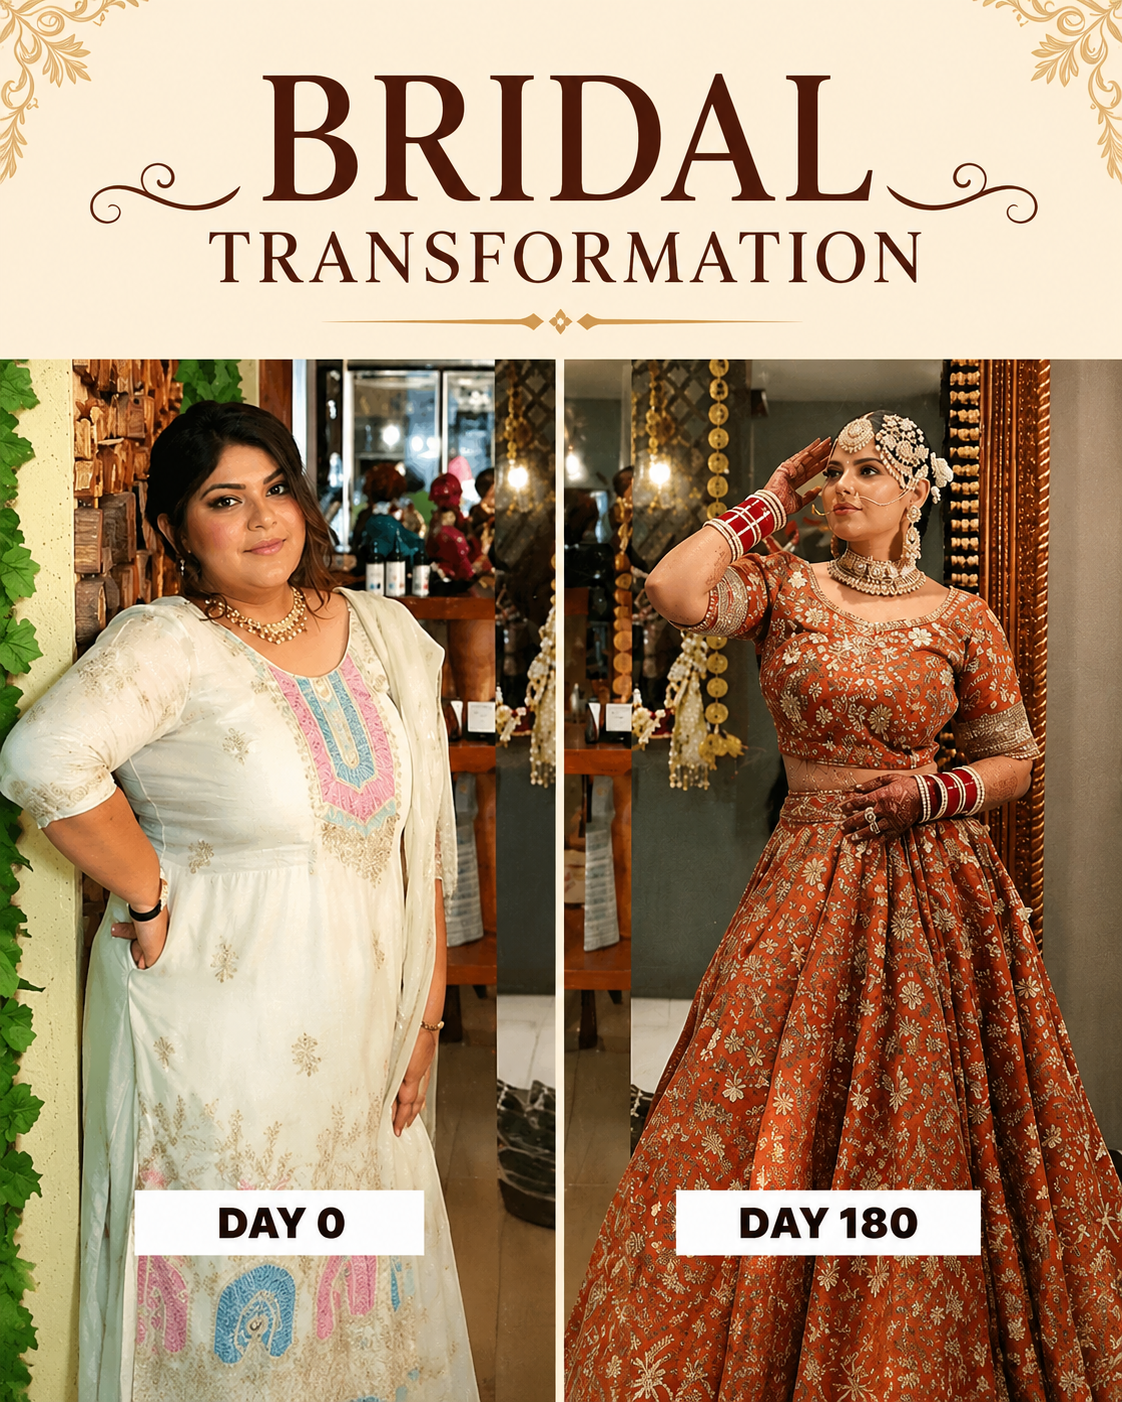
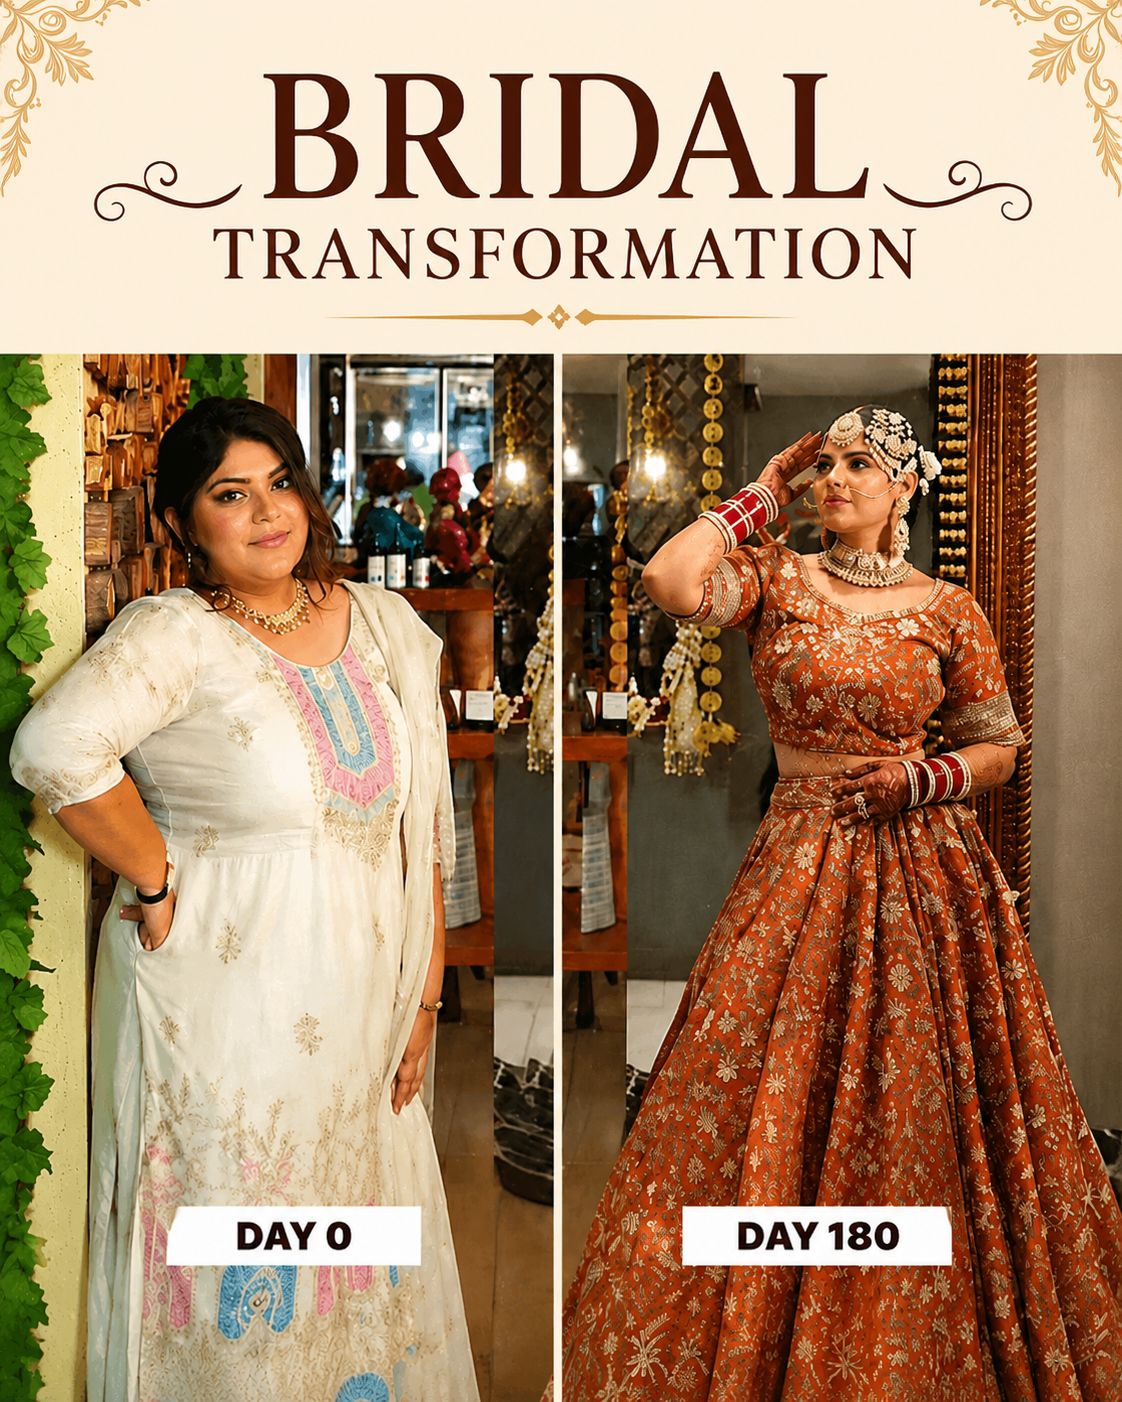
Brides: new hero poster, fix overflow, tagline wrap, stat overlay, 17kg metric

diff --git a/app/brides/page.tsx b/app/brides/page.tsx
@@ -211,7 +211,7 @@ export default function BridesEditPage() {
             <div>
               <div style={css("display:flex;align-items:center;gap:10px;margin-bottom:22px")}>
                 <span style={{ ...css("width:6px;height:6px;border-radius:50%;background:#C9A24B"), animation: "meblink 2s ease-in-out infinite" }} />
-                <span style={css("font-family:'Jost',sans-serif;font-size:9px;letter-spacing:.14em;text-transform:uppercase;color:#5F574F;white-space:nowrap")}>Doctor guided GLP 1 · Designed for Brides · Avg 17kg Weight Loss</span>
+                <span style={css("font-family:'Jost',sans-serif;font-size:9px;letter-spacing:.14em;text-transform:uppercase;color:#5F574F")}>Doctor guided GLP 1 · Designed for Brides · Avg 17kg Weight Loss</span>
               </div>
               <h1 style={css("font-family:'Playfair Display',serif;font-weight:500;font-size:46px;line-height:1.04;letter-spacing:-.01em;margin:0 0 22px")}>Meet your <span style={css("font-style:italic;color:#B5202C")}>Bridal Goals</span> with GLP 1</h1>
               
@@ -220,13 +220,10 @@ export default function BridesEditPage() {
                 <div style={css("font-size:12px;color:#7A6F66;line-height:1.4;font-weight:300")}><strong style={css("color:#2A2020;font-weight:600")}>1,000+ brides</strong><sup style={css("color:#C9A24B")}>*</sup><br />transformed before the aisle</div>
               </div>
             </div>
-            <div style={css("position:relative")}>
-              <img src="/brides/bridal-1.png" alt="Lean Protocol bride" style={css("display:block;width:100%;aspect-ratio:4/5;object-fit:cover;object-position:center 30%;border-radius:3px;border:1px solid #FFFDF9")} />
-              <div style={css("position:absolute;left:18px;bottom:18px;right:18px;background:#fff;border:1px solid #FFFDF9;border-radius:3px;padding:14px 16px;display:flex;justify-content:space-between;align-items:center")}>
-                <div style={css("text-align:left")}><div style={css("font-family:'Playfair Display',serif;font-size:26px;font-weight:600;color:#B5202C;line-height:1")}>17 kg<sup style={css("font-size:11px;color:#C9A24B")}>*</sup></div><div style={css("font-family:'Jost',sans-serif;font-size:9.5px;letter-spacing:.12em;text-transform:uppercase;color:#7A6F66;margin-top:5px")}>typical loss / 5 months</div></div>
-                <div style={css("width:1px;align-self:stretch;background:#FFFDF9")} />
-                <div style={css("text-align:right")}><div style={css("font-family:'Playfair Display',serif;font-size:26px;font-weight:600;color:#B5202C;line-height:1")}>98%<sup style={css("font-size:11px;color:#C9A24B")}>*</sup></div><div style={css("font-family:'Jost',sans-serif;font-size:9.5px;letter-spacing:.12em;text-transform:uppercase;color:#7A6F66;margin-top:5px")}>felt camera-ready</div></div>
-              </div>
+            <div style={css("position:relative;overflow:hidden;border-radius:3px;border:1px solid #E8D9B8")}>
+              <img src="/brides/bridal-1.png" alt="Lean Protocol bride" style={css("display:block;width:100%;max-width:100%;height:auto;object-fit:contain")} />
+              <div style={css("position:absolute;left:16px;right:16px;bottom:16px;background:#fff;border-radius:4px;padding:14px 18px;display:flex;justify-content:space-between;align-items:center;box-shadow:0 6px 20px rgba(0,0,0,.12)")}><div style={css("text-align:left")}><div style={css("font-family:'Playfair Display',serif;font-size:28px;font-weight:600;color:#B5202C;line-height:1")}>17 kg<sup style={css("font-size:12px;color:#C9A24B")}>*</sup></div><div style={css("font-family:'Jost',sans-serif;font-size:9.5px;letter-spacing:.1em;text-transform:uppercase;color:#7A6F66;margin-top:5px")}>Typical loss / 5 months</div></div><div style={css("text-align:right")}><div style={css("font-family:'Playfair Display',serif;font-size:28px;font-weight:600;color:#B5202C;line-height:1")}>98%<sup style={css("font-size:12px;color:#C9A24B")}>*</sup></div><div style={css("font-family:'Jost',sans-serif;font-size:9.5px;letter-spacing:.1em;text-transform:uppercase;color:#7A6F66;margin-top:5px")}>Felt camera-ready</div></div></div>
+              
             </div>
           </div>
         </section>
@@ -484,3 +481,7 @@ export default function BridesEditPage() {
     </div>
   );
 }
+
+
+
+
